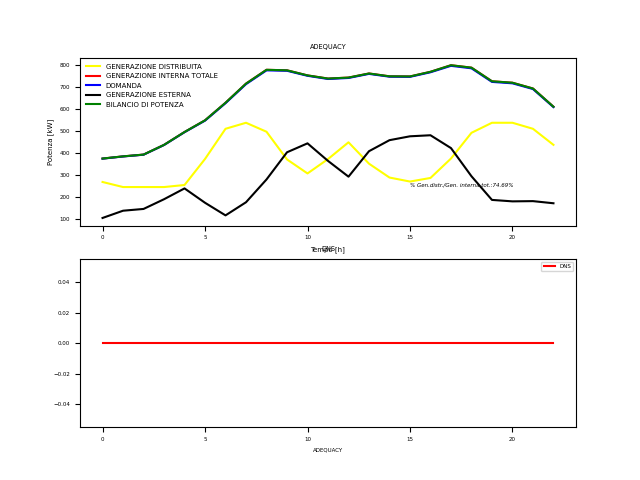
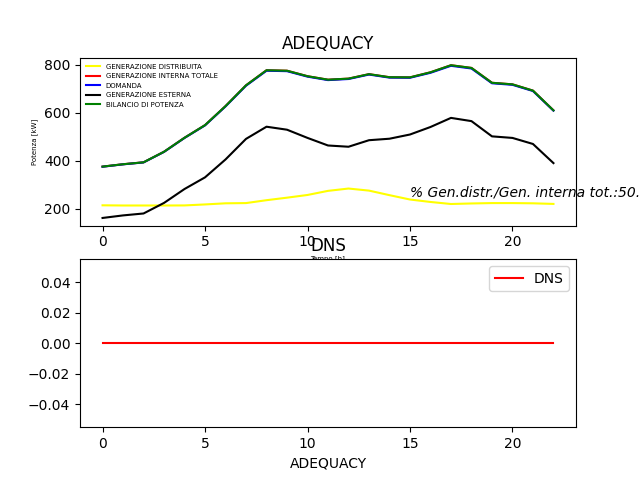
Casa-ENEA

diff --git a/main.py b/main.py
@@ -1163,11 +1163,11 @@ class Main:
     def optstor_create(self):
         from Functionalities.OptimalStorage.optimalStorage import OptStorWGT
 
-        # try:
-        #     self.ui.home_WGT.deleteLater()
-        # except:
-        #     self.home_WGT.deleteLater()
-        self.homeClear()
+        try:
+            self.ui.home_WGT.deleteLater()
+        except:
+            self.home_WGT.deleteLater()
+        # self.homeClear()
 
         self.optStorWgt = OptStorWGT()
 
@@ -2009,21 +2009,25 @@ class Main:
         val2 = '%.2f' % self.av_lole_anom
         self.lole1LBL = QLabel('LOLE = ' + val1 + ' ore/anno')
         self.lole1LBL.setStyleSheet('font: 75 10pt "MS Shell Dlg 2"; '
+                                    'border-top: 1px solid white;'
                                     # 'border: solid; border-width: 1 px; '
                                     # 'border-color: rgb(255, 255, 255); '
                                     # 'border-radius: 10 px;'
-                                    'color: rgb(0, 0, 255);'
-                                    'background-color: rgb(255, 255, 255)')
+                                    'color: rgb(0, 255, 0);'
+                                    # 'background-color: rgb(255, 255, 255)'
+                                    )
         self.lole1LBL.setMinimumHeight(15)
         self.lole1LBL.setAlignment(QtCore.Qt.AlignCenter)
 
         self.lole2LBL = QLabel('LOLE = ' + val2 + ' ore/anno')
         self.lole2LBL.setStyleSheet('font: 75 10pt "MS Shell Dlg 2"; '
+                                    'border-bottom: 1px solid white;'
                                     # 'border: solid; border-width: 1 px; '
                                     # 'border-color: rgb(255, 255, 255); '
                                     # 'border-radius: 10 px;'
                                     'color: rgb(255, 0, 0);'
-                                    'background-color: rgb(255, 255, 255)')
+                                    # 'background-color: rgb(255, 255, 255)'
+                                    )
         self.lole2LBL.setMinimumHeight(15)
         self.lole2LBL.setAlignment(QtCore.Qt.AlignCenter)
 
@@ -2047,23 +2051,27 @@ class Main:
 
         val1 = '%.5f' % self.av_eens_furn_rel
         val2 = '%.5f' % self.av_eens_anom
-        self.eens1LBL = QLabel('EENS = ' + val1 + 'kWh')
+        self.eens1LBL = QLabel('EENS = %.4f kWh' % self.av_eens_furn_rel)
         self.eens1LBL.setStyleSheet('font: 75 10pt "MS Shell Dlg 2"; '
                                     # 'border: solid; border-width: 1 px; '
                                     # 'border-color: rgb(255, 255, 255); '
                                     # 'border-radius: 10 px;'
-                                    'color: rgb(0, 0, 255);'
-                                    'background-color: rgb(255, 255, 255)')
+                                    'border-top: 1px solid white;'
+                                    'color: rgb(0, 255, 0);'
+                                    # 'background-color: rgb(255, 255, 255)'
+                                    )
         self.eens1LBL.setMinimumHeight(15)
         self.eens1LBL.setAlignment(QtCore.Qt.AlignCenter)
 
-        self.eens2LBL = QLabel('EENS = ' + val2 + 'kWh')
+        self.eens2LBL = QLabel('EENS =  %.4f kWh' % self.av_eens_anom)
         self.eens2LBL.setStyleSheet('font: 75 10pt "MS Shell Dlg 2"; '
                                     # 'border: solid; border-width: 1 px; '
                                     # 'border-color: rgb(255, 255, 255); '
                                     # 'border-radius: 10 px;'
+                                    'border-bottom: 1px solid white;'
                                     'color: rgb(255, 0, 0);'
-                                    'background-color: rgb(255, 255, 255)')
+                                    # 'background-color: rgb(255, 255, 255)'
+                                    )
         self.eens2LBL.setMinimumHeight(15)
         self.eens2LBL.setAlignment(QtCore.Qt.AlignCenter)
 
@@ -2101,14 +2109,22 @@ class Main:
             ax.set_position([box.x0 + box.width * 0.15, box.y0 + box.height * 0.25, box.width * 0.9, box.height * 0.85])
             ax.set_xticks(list(range(10)))
 
-        ax.set_xlabel(data['x-axis'], fontsize=10)
-        ax.set_ylabel(data['y-axis'], fontsize=10)
+        for side in ['bottom', 'top', 'right', 'left']:
+            ax.spines[side].set_color('white')
+        ax.tick_params(colors='white')
+        # ax.xaxis.label.set_color('white')
+
+        #  -- TODO: PROVA -------------------------------------------------
+        # ax.setTitleBrush(QtGui.QColor(255, 255, 255))
+
+        ax.set_xlabel(data['x-axis'], fontsize=10, color='white')
+        ax.set_ylabel(data['y-axis'], fontsize=10, color='white')
         ax.legend(frameon=False, loc='upper center', bbox_to_anchor=(0.5, -0.2), fancybox=True, shadow=True, ncol=col,
-                  fontsize=8)
+                  fontsize=8, labelcolor='white')
 
         filename = mainpath + '/Functionalities/Adequacy/__images__/' + str(fig) + '.png'
         # print(filename)
-        figure.savefig(filename)
+        figure.savefig(filename, transparent=True)
         pass
 
     def homeClear(self):

diff --git a/Functionalities/Adequacy/Adeguatezza_V3.py b/Functionalities/Adequacy/Adeguatezza_V3.py
@@ -362,8 +362,8 @@ class Adeguatezza:
             'colors': {
                 0: 'yellow',
                 1: 'red',
-                2: 'blue',
-                3: 'black',
+                2: '#00ffdd',
+                3: 'white',
                 4: 'green',
             },
             'labels': {
@@ -466,7 +466,7 @@ class Adeguatezza:
                 1: LOLE_medio_anomalies_anno_MC,
             },
             'colors': {
-                0: 'blue',
+                0: 'green',
                 1: 'red',
             },
             'labels': {
@@ -567,7 +567,7 @@ class Adeguatezza:
                 1: EENS_medio_anomalies_anno_MC,
             },
             'colors': {
-                0: 'blue',
+                0: 'green',
                 1: 'red',
             },
             'labels': {
